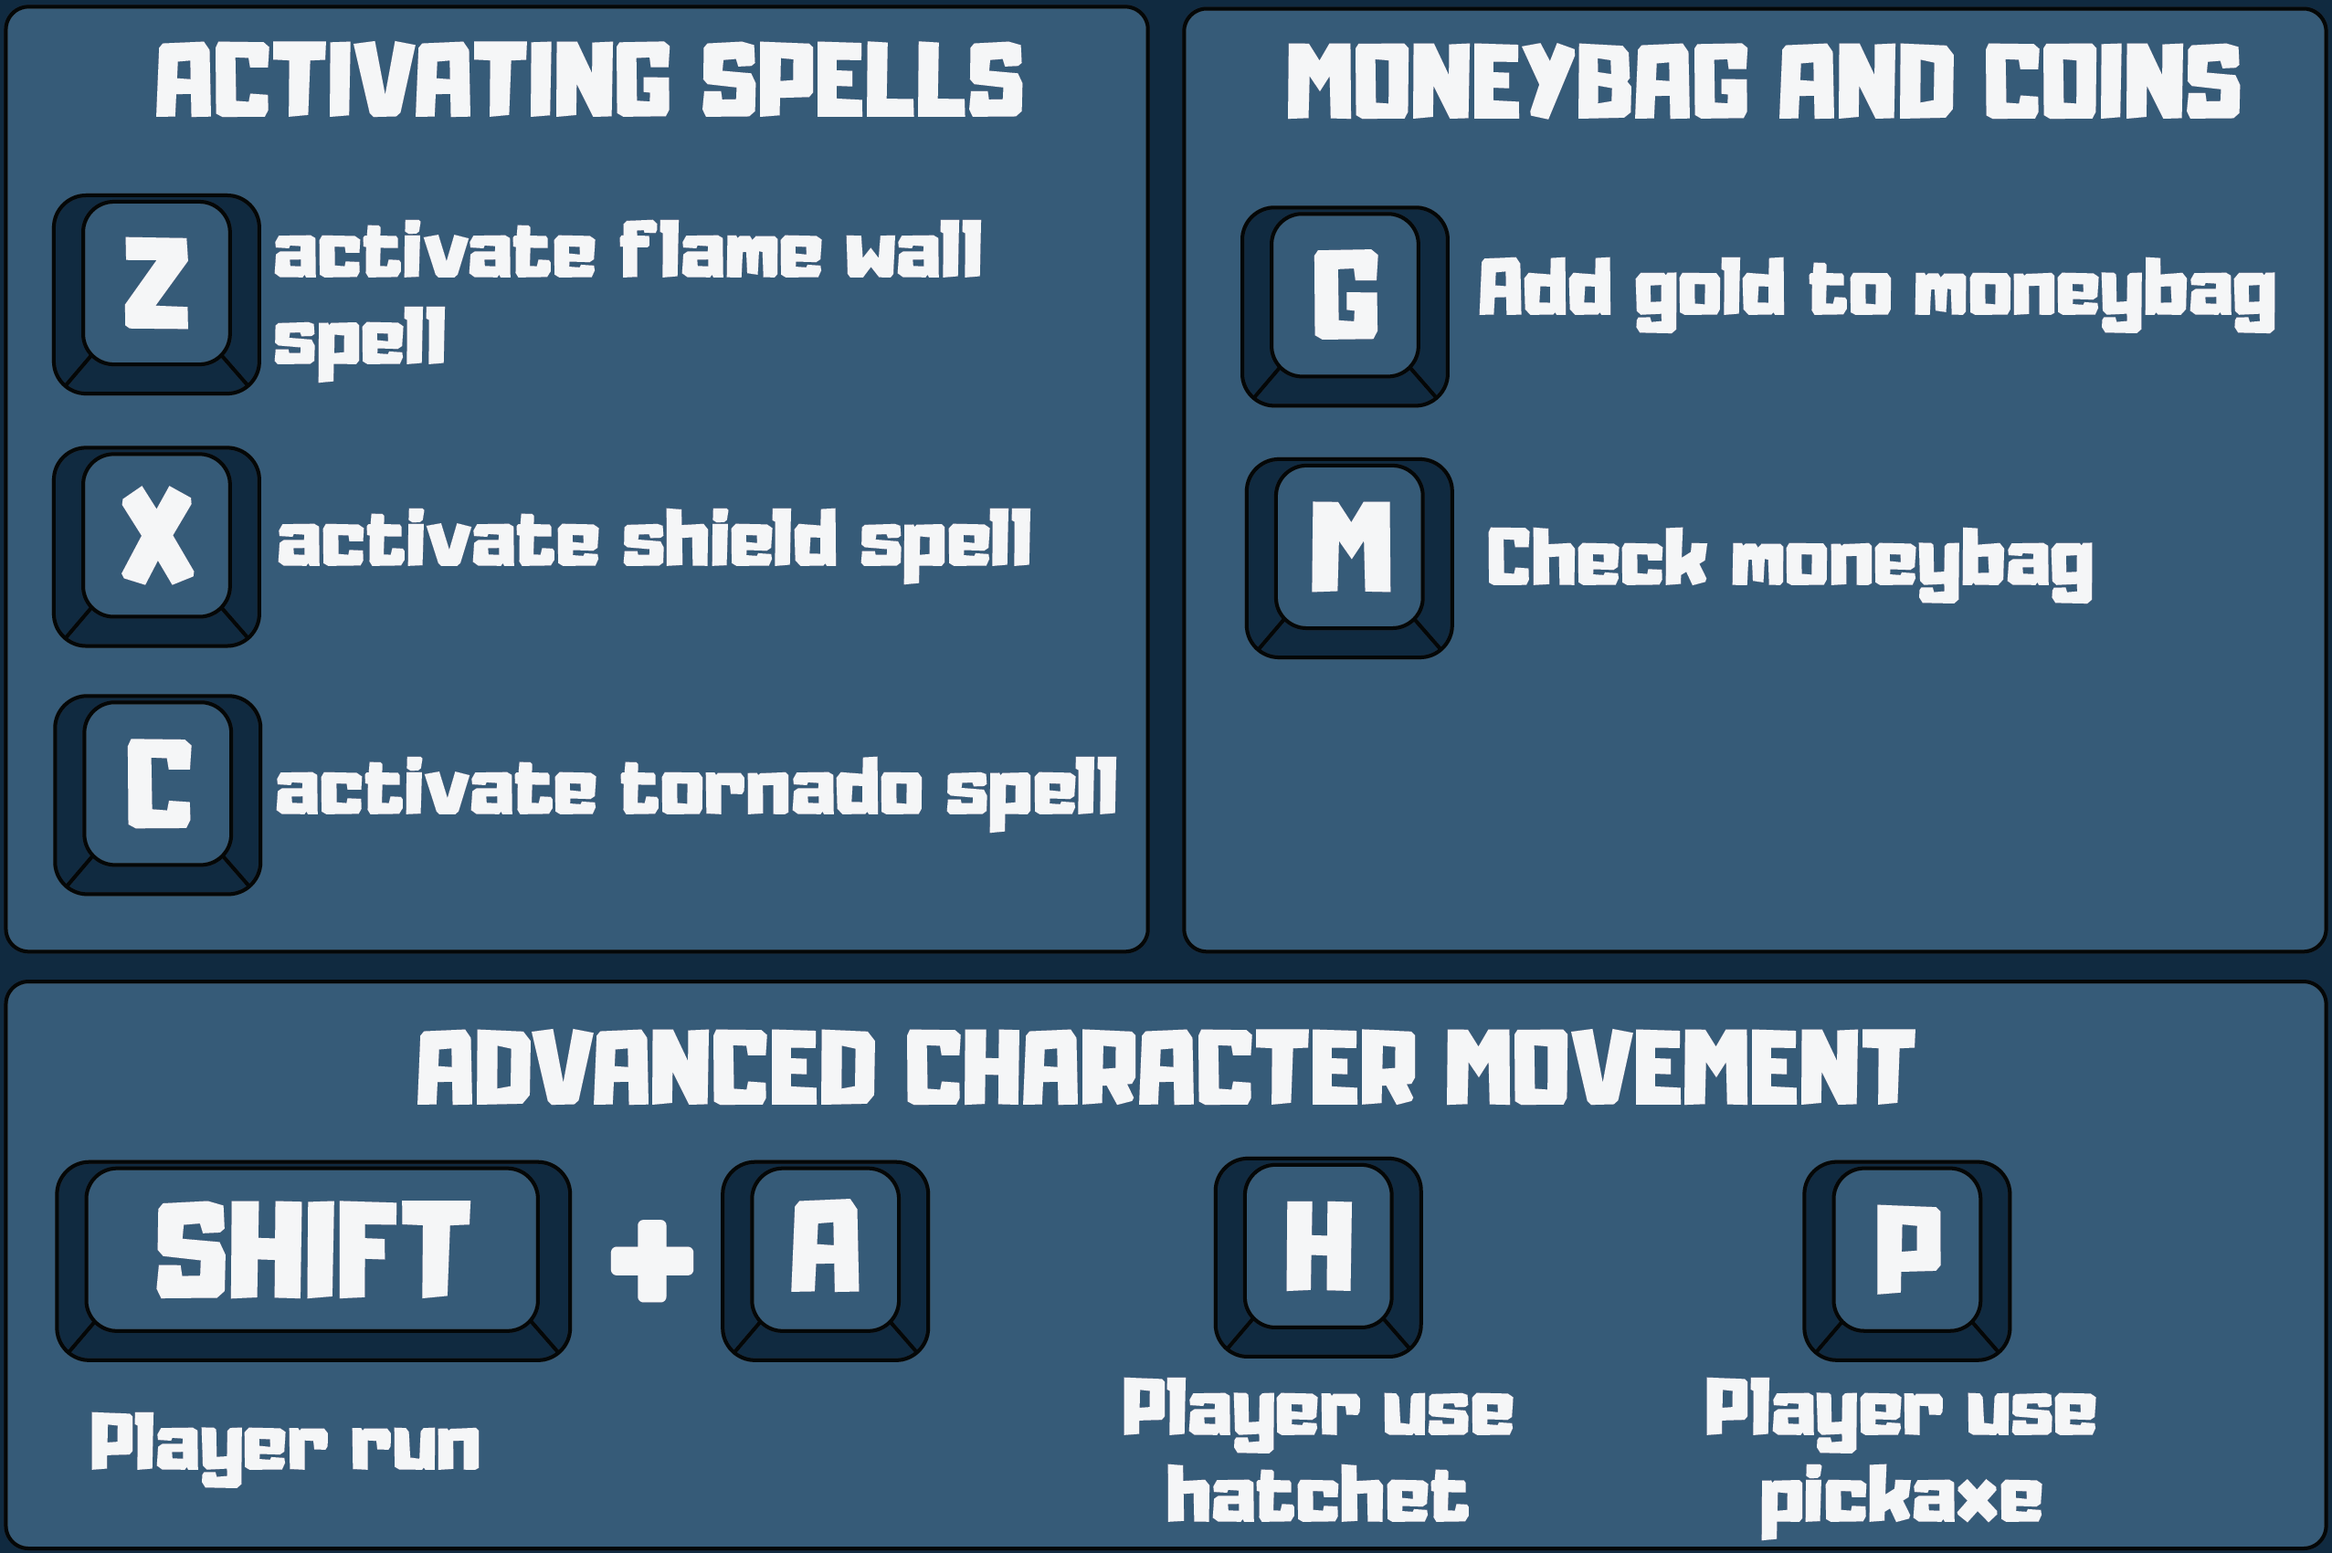
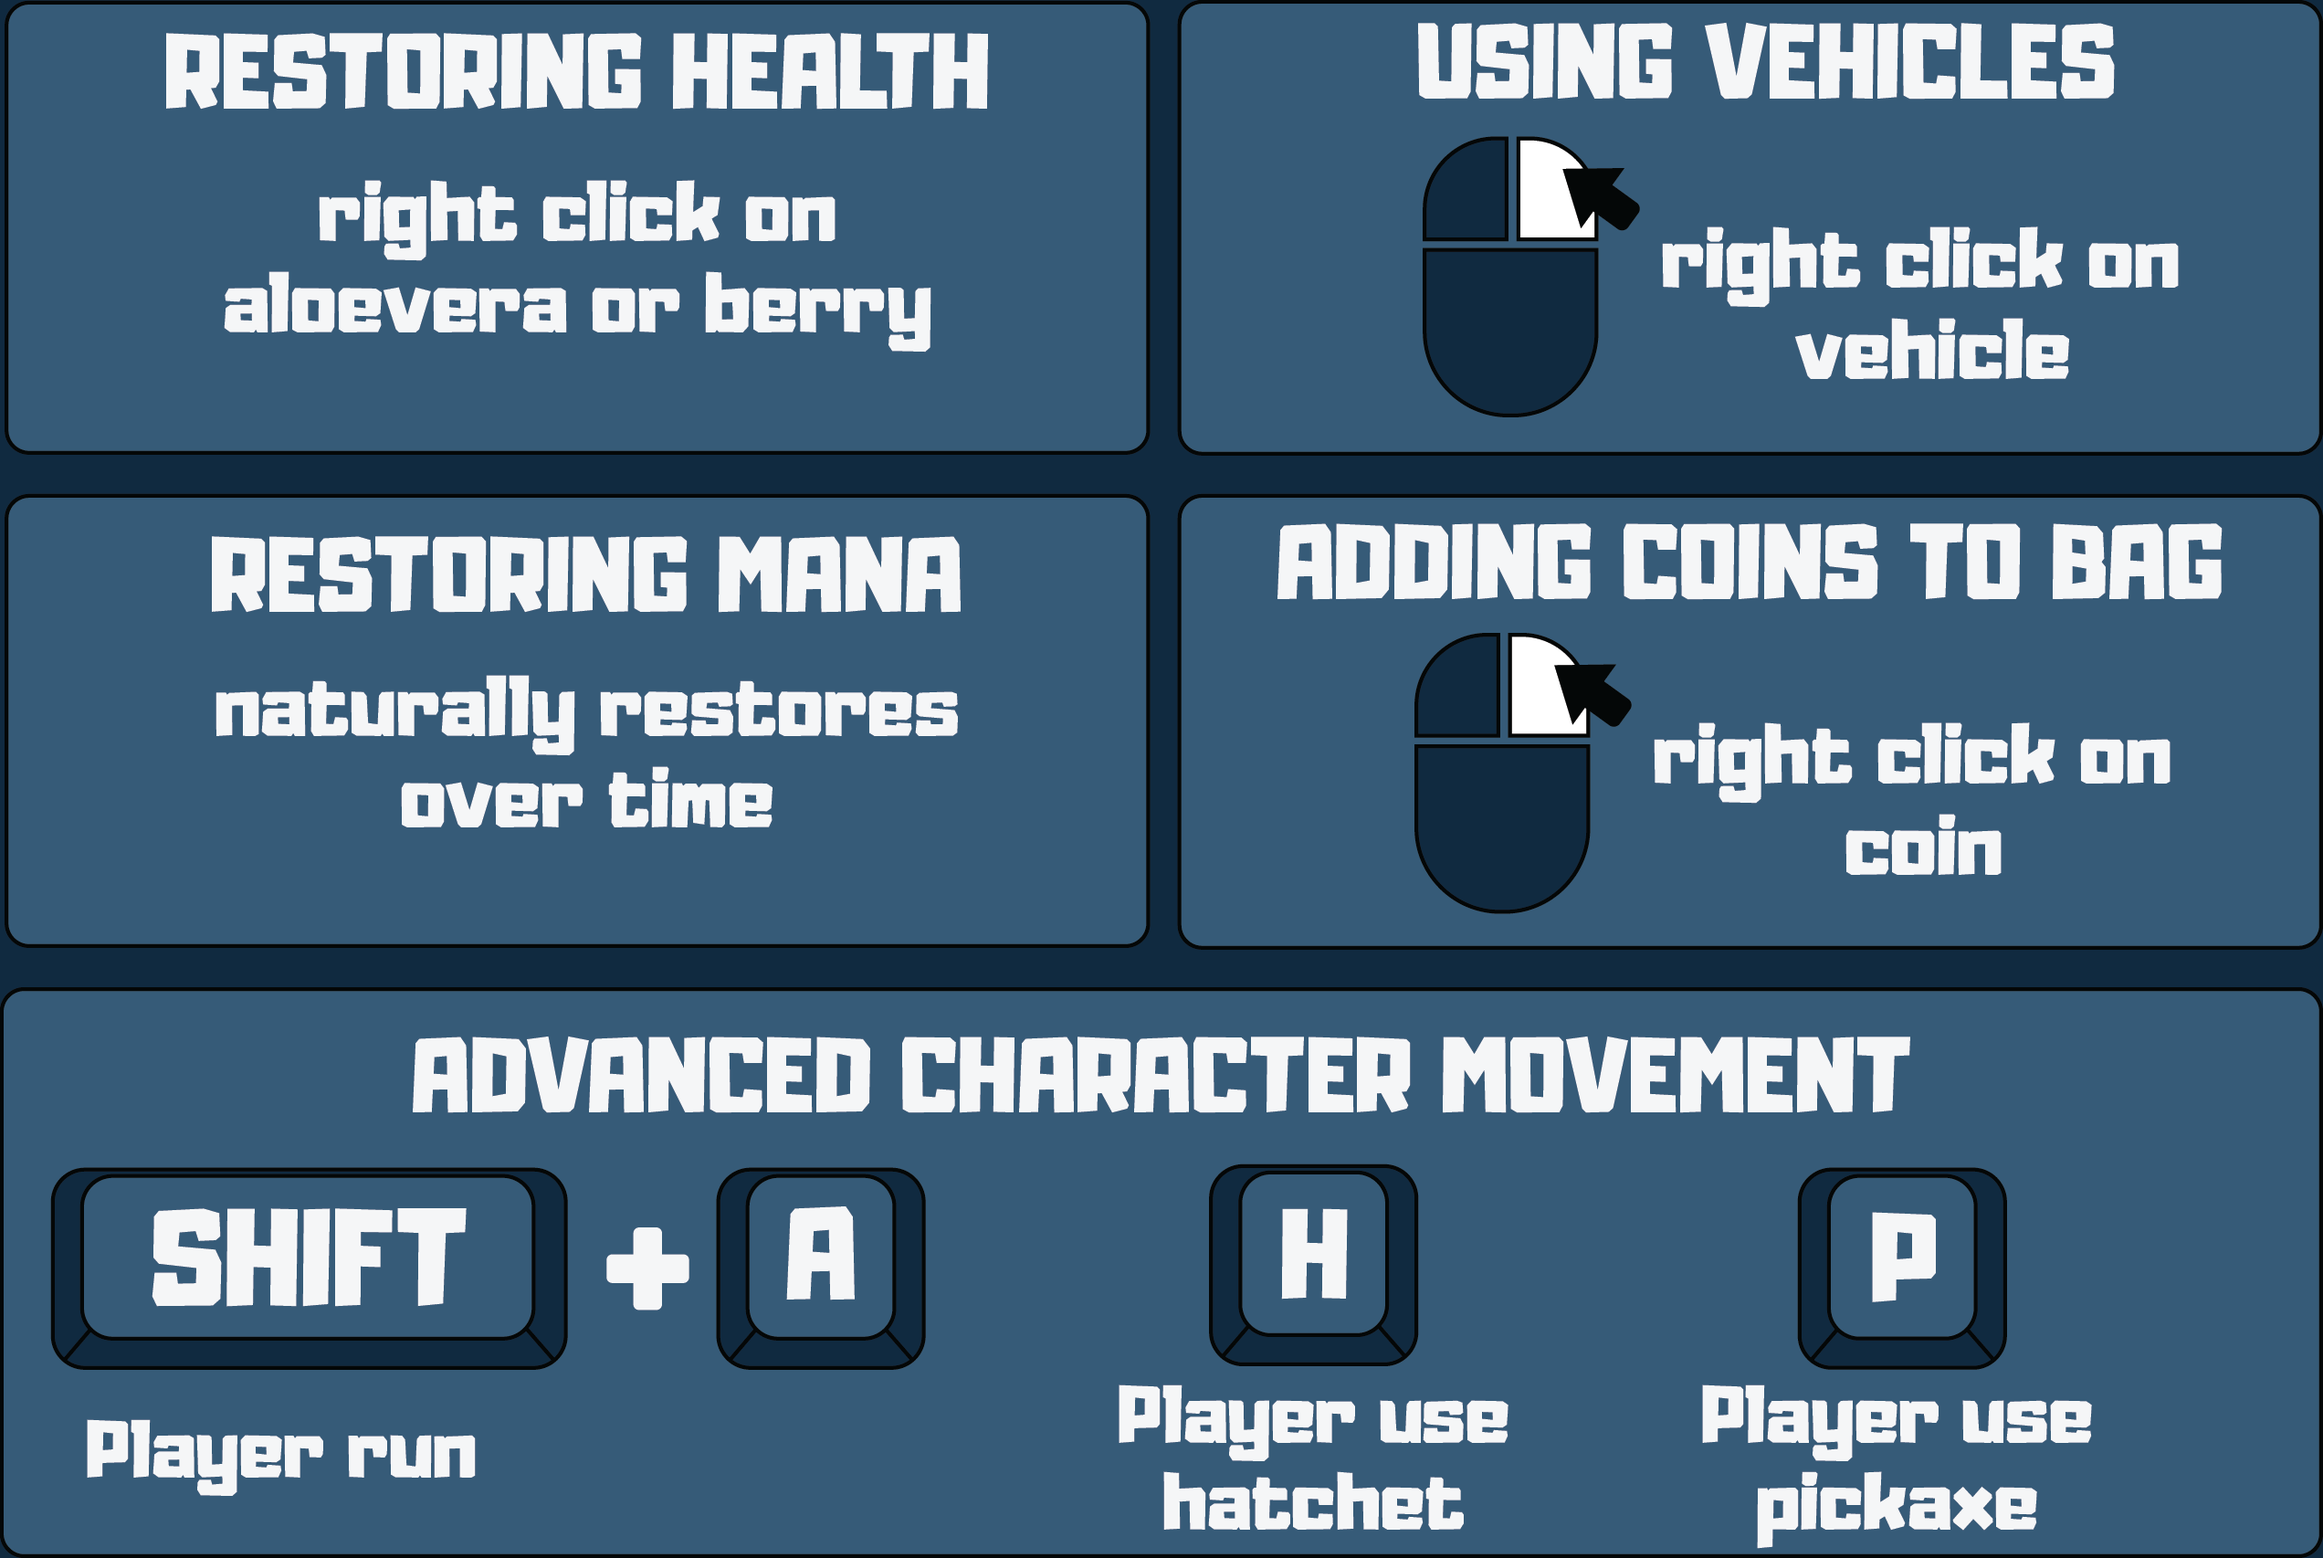
Help table has 3 pages

diff --git a/src/main/java/deco2800/skyfall/gamemenu/popupmenu/HelpTable.java b/src/main/java/deco2800/skyfall/gamemenu/popupmenu/HelpTable.java
@@ -16,6 +16,10 @@ import deco2800.skyfall.managers.TextureManager;
 public class HelpTable extends AbstractPopUpElement{
     private Skin skin;
     private Table table;
+    private Image pages[] = {new Image(gameMenuManager.generateTextureRegionDrawableObject("help_page1")),
+            new Image(gameMenuManager.generateTextureRegionDrawableObject("help_page2")),
+            new Image(gameMenuManager.generateTextureRegionDrawableObject("help_page3"))};
+
 
     /**
      * Constructs a help table.
@@ -70,7 +74,7 @@ public class HelpTable extends AbstractPopUpElement{
 
         drawBanner();
         // Show first page
-        toPrev();
+        toPage(1);
         table.setVisible(false);
         stage.addActor(table);
     }
@@ -85,8 +89,61 @@ public class HelpTable extends AbstractPopUpElement{
         Label title = new Label("HELP", skin, "navy-text");
         banner.add(title);
 
-        table.add(banner).width(700).height(70).padTop(20).colspan(2);
+        table.add(banner).width(700).height(70).padTop(20).colspan(4);
         table.row().padTop(10);
+    }
+
+    /**
+     * Switch page {page} (more commands).
+     *
+     * @param page page we want to switch to
+     */
+    private void toPage(int page) {
+        Image currentPage = pages[page - 1];
+        table.add(currentPage).width(650).height(1704f / 2556 * 650).colspan(4);
+        table.row();
+
+        TextureRegionDrawable arrow = gameMenuManager.generateTextureRegionDrawableObject("help_arrow");
+
+        if (page > 1) {
+            ImageButton leftArrow = new ImageButton(arrow);
+            // Rotates the arrow
+            leftArrow.setTransform(true);
+            leftArrow.setOrigin(30, 25);
+            leftArrow.setRotation(180);
+            table.add(leftArrow).width(60).height(50).padLeft(10).spaceRight(10);
+            leftArrow.addListener(new ClickListener() {
+                @Override
+                public void clicked(InputEvent event, float x, float y) {
+                    // Redraws the table and switch to the second page
+                    table.clearChildren();
+                    drawBanner();
+                    toPage(page-1);
+                }
+            });
+            Label prev = new Label("PREVIOUS", skin, "white-text");
+            prev.setFontScale(0.7f);
+            table.add(prev).left().expandX();
+        }
+
+        if (page < 3) {
+            Label next = new Label("NEXT", skin, "white-text");
+            next.setFontScale(0.7f);
+            table.add(next).right().expandX();
+
+            ImageButton rightArrow = new ImageButton(arrow);
+            table.add(rightArrow).width(60).height(50).spaceLeft(10).padRight(10);
+            rightArrow.addListener(new ClickListener() {
+                @Override
+                public void clicked(InputEvent event, float x, float y) {
+                    // Redraw the table and switch to first page
+                    table.clearChildren();
+                    drawBanner();
+                    toPage(page+1);
+                }
+            });
+        }
+
     }
 
     /**
@@ -94,7 +151,7 @@ public class HelpTable extends AbstractPopUpElement{
      */
     private void toNext() {
         Image page2 = new Image(gameMenuManager.generateTextureRegionDrawableObject("help_page2"));
-        table.add(page2).width(650).height(1704f / 2556 * 650).colspan(2);
+        table.add(page2).width(650).height(1704f / 2556 * 650).colspan(4);
         table.row();
 
         TextureRegionDrawable arrow = gameMenuManager.generateTextureRegionDrawableObject("help_arrow");

diff --git a/src/main/java/deco2800/skyfall/managers/TextureManager.java b/src/main/java/deco2800/skyfall/managers/TextureManager.java
@@ -306,6 +306,7 @@ public class TextureManager extends AbstractManager {
             // Help table
             textureMap.put("help_page1", new Texture("resources/new_ui/helpTable/help_page1.png"));
             textureMap.put("help_page2", new Texture("resources/new_ui/helpTable/help_page2.png"));
+            textureMap.put("help_page3", new Texture("resources/new_ui/helpTable/help_page3.png"));
             textureMap.put("help_arrow", new Texture("resources/new_ui/helpTable/arrow.png"));
 
             // Clock/Season graphics
